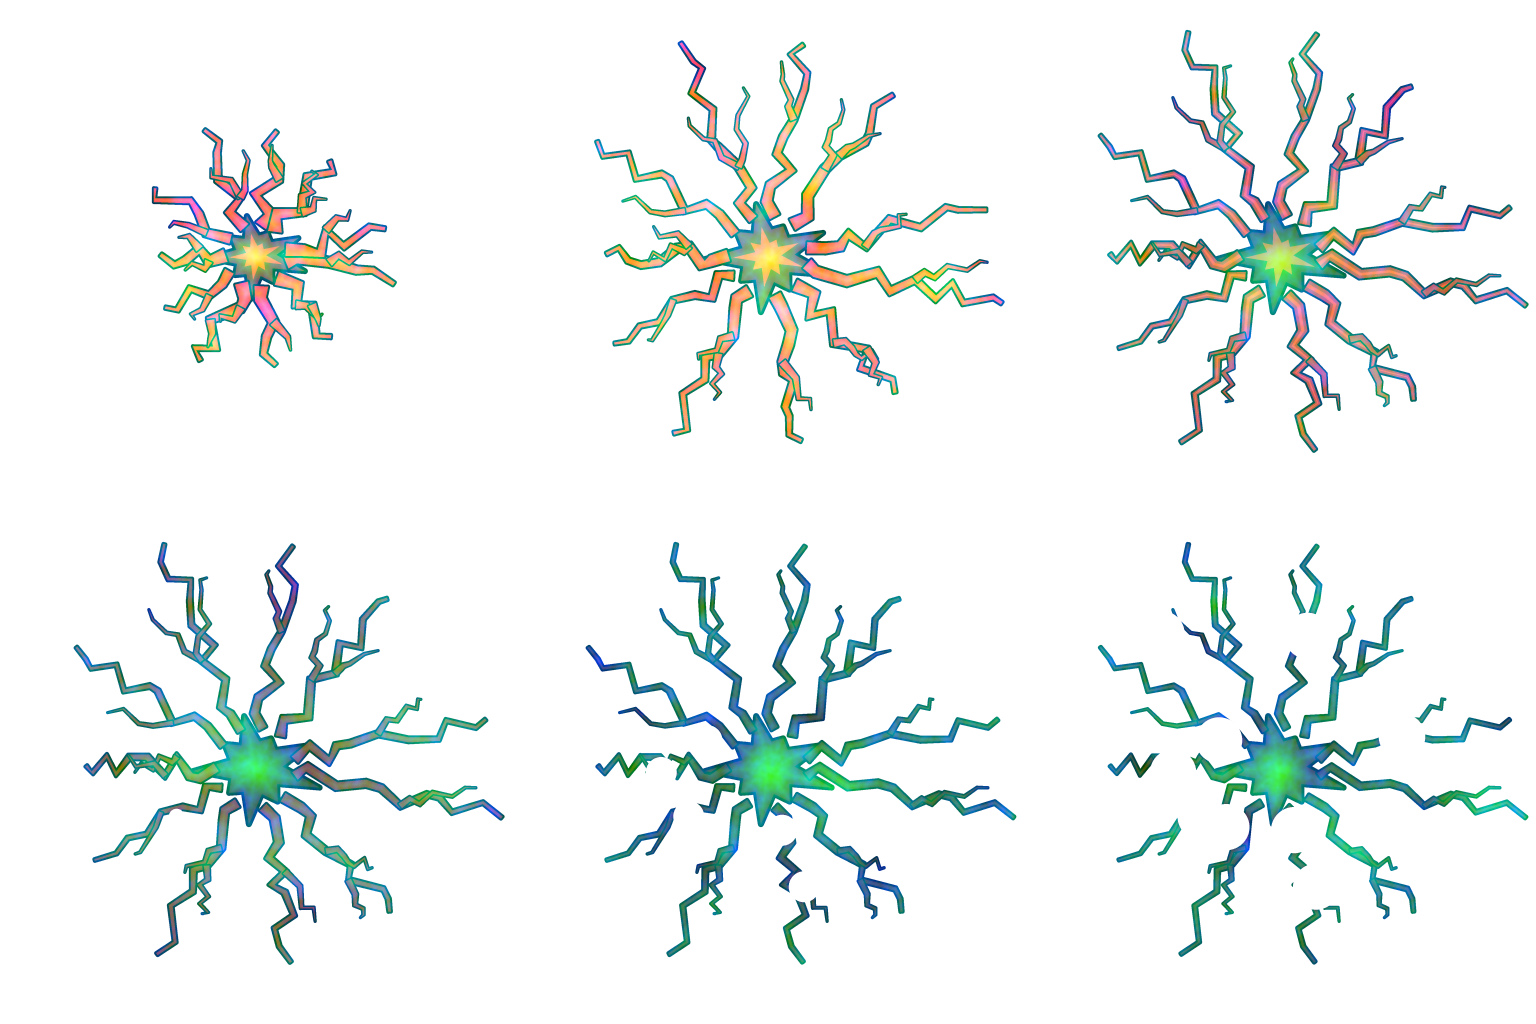
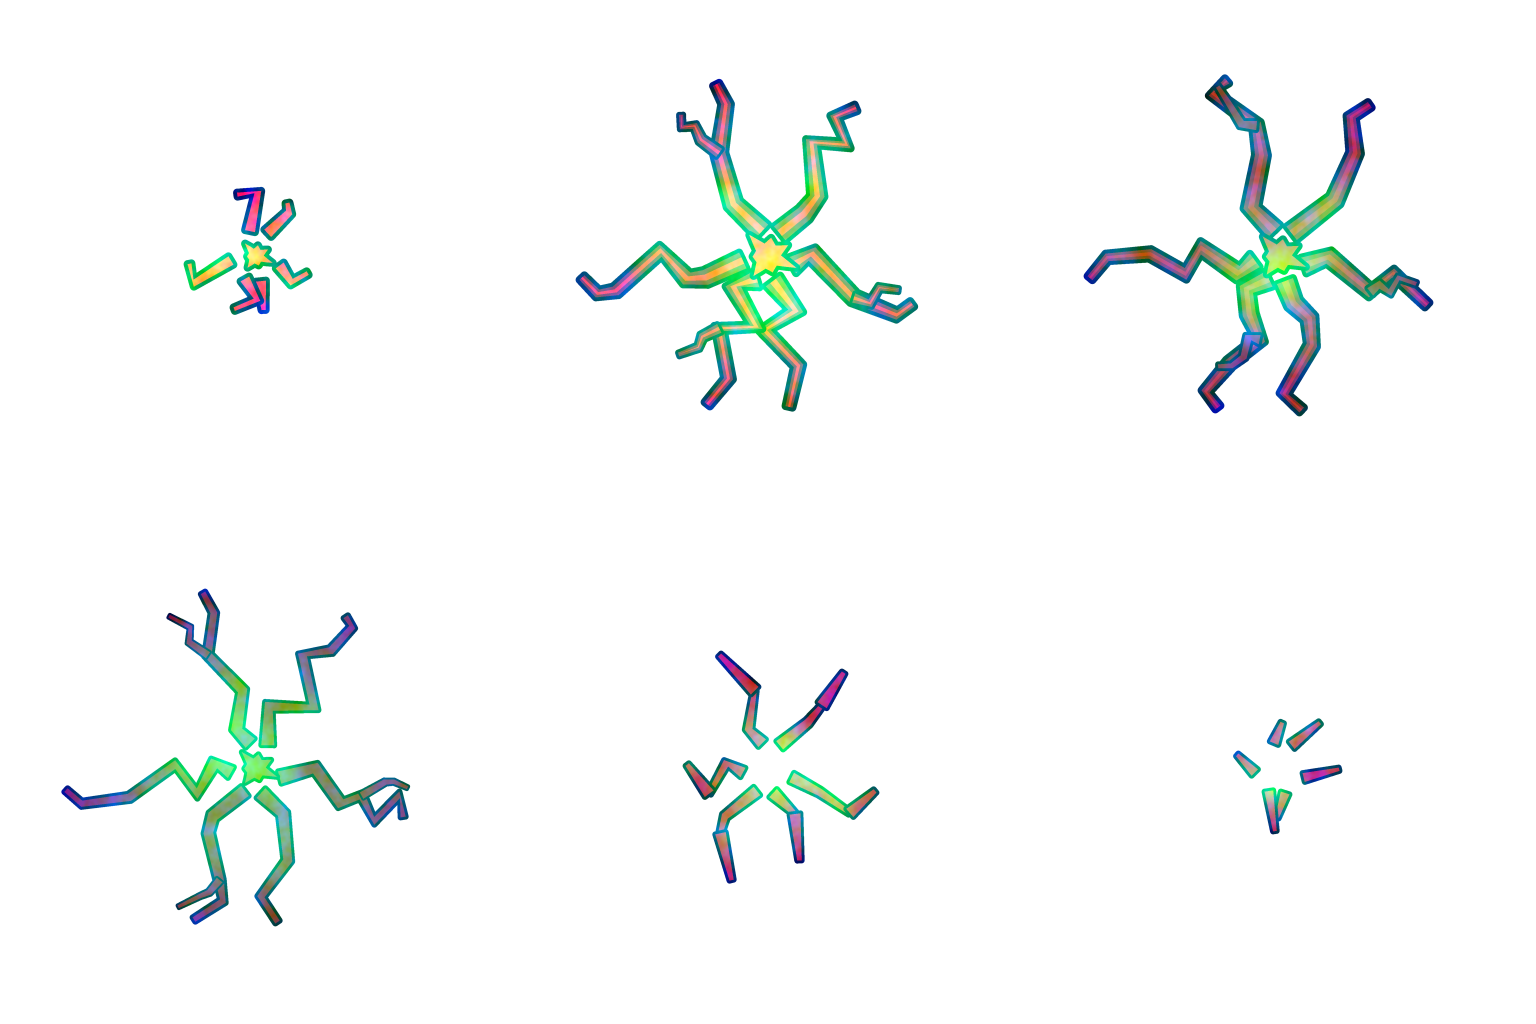
feat(fx): ice and storm landing floor spreads redrawn in their languages
Ice landings get their own floor_frost sheet: a see-through rime patch broken
into plates by three straight kinked fractures (none from one middle), lit
plate edges, a hot heart at the peak, plates dropping outer first. Storm's
floor_arcs is six fat lime zigzags in three clustered fans with a white-hot
core, retracting tail first, never deep green. The spread is pooled through
FX_BEAT.stamp; the spectacle check counts a pooled node as ended.

diff --git a/tools/vfx_gen/gen_spectacle.py b/tools/vfx_gen/gen_spectacle.py
@@ -18,6 +18,7 @@ import os
 import sys
 
 import numpy as np
+from scipy import ndimage
 
 sys.path.insert(0, os.path.dirname(os.path.abspath(__file__)))
 from vfxlib import (BODY, DEEP, HOT, INK, LIGHT, SS, Frame, ellipse_mask, grow, jag_path,  # noqa: E402
@@ -307,12 +308,160 @@ def floor_cracks(i, n, size):
     return _spread(i, n, size, "cracks", 3601)
 
 
-def floor_arcs(i, n, size):
-    return _spread(i, n, size, "arcs", 3701)
-
-
 def floor_splat(i, n, size):
     return _spread(i, n, size, "splat", 3801)
+
+
+# --- floor_arcs (fx-queue-a, the lightning language): the storm landing's floor spread ---------------------------
+# Was eleven thin zigzags plus forks that cooled to deep green: a dark scribble web under the pile. Now six fat lime
+# bolts in three uneven fans (cluster_angles, clear gaps), uneven segments, one short fork on some, a white-hot core
+# down each at the peak. Frame 0 the leaders (short, hot, thin: the anticipation), 1 the strike at full length (white
+# core, the one hot area), 2 the same bolts re-drawn (they crawl on twos) with a light core, 3 the afterimage (body,
+# no core, thinner), 4-5 they break into pieces from the tips in (tail first) and the stubs fade. Never deep green.
+
+def floor_arcs(i, n, size):
+    f = Frame(size)
+    c = f.c
+    seed = 3701
+    angs = cluster_angles(6, seed, clusters=3, spread=0.42)
+    reach = [0.34, 0.95, 0.97, 0.97, 0.9, 0.8][i]
+    width = [0.55, 1.0, 0.95, 0.72, 0.6, 0.5][i]
+    boil = 0 if i <= 1 else (1 if i == 2 else 2)  # the zigzag re-drawn (crawls) from frame 2 on
+    tone = HOT if i == 0 else (BODY if i <= 3 else LIGHT)
+    ink = 4.0 if i <= 2 else 3.0
+    g = rng(seed + 11)
+    lens = [g.uniform(0.75, 1.0) for _ in angs]
+    for k, (a, wt) in enumerate(angs):
+        L = f.u(reach * lerp(0.62, 1.0, wt) * lens[k])
+        r0 = f.u(0.1)
+        if L <= r0 * 1.4:
+            continue
+        p = jag_path(polar(c, r0, a), polar(c, L, a + 0.06 * (1 if k % 2 else -1)), f.u(0.13), 0.62, seed + k * 7 + boil * 101)
+        w0 = f.u(0.078) * lerp(0.75, 1.0, wt) * width
+        wf = lambda q, w0=w0: w0 * (1 - 0.62 * q) + 1.0
+        if i >= 4:  # tail first: the outer end goes, the rest breaks into two or three pieces
+            keep = 0.75 if i == 4 else 0.5
+            m = max(2, int(len(p) * keep))
+            p = p[:m]
+            pieces = [p[:max(2, m // 2 + 1)], p[m // 2 + (1 if i == 5 else 0):]]
+        else:
+            pieces = [p]
+        for pc in pieces:
+            if len(pc) < 2:
+                continue
+            f.poly(stroke(pc, wf, cap=False), tone, ink=ink)
+            if i in (1, 2):  # the core down the bolt: white-hot at the strike, light after
+                f.poly(stroke(pc, lambda q, w0=w0: w0 * 0.4 * (1 - 0.7 * q), cap=False), HOT if i == 1 else LIGHT)
+        if 1 <= i <= 3 and k % 2 == 0:  # one short zigzag fork off the middle
+            j = len(p) // 2
+            x0, y0 = p[j]
+            fa = a + (0.55 if k % 4 else -0.55)
+            fl = L * 0.3
+            fp = jag_path((x0, y0), (x0 + math.cos(fa) * fl, y0 + math.sin(fa) * fl), f.u(0.07), 0.55, seed + 50 + k + boil * 13)
+            f.poly(stroke(fp, lambda q, w0=w0: w0 * 0.55 * (1 - 0.6 * q) + 1.0, cap=False), tone, ink=ink - 1.0)
+            if i == 1:
+                f.poly(stroke(fp, lambda q, w0=w0: w0 * 0.2 * (1 - q), cap=False), HOT)
+    # the strike point: a small lopsided straight star where it grounded (hot at the peak, lime after)
+    if i <= 3:
+        R = f.u([0.07, 0.12, 0.11, 0.09][i])
+        tips = [R * b for b in (1.0, 0.55, 0.8, 0.5, 0.92, 0.6, 0.75)]
+        f.poly(star(c, c, tips, R * 0.42, rot=0.4, bow=0.0, n_edge=2), HOT if i <= 1 else (LIGHT if i == 2 else BODY), ink=ink)
+    # tail first: the outer ends go first, in clumps
+    S = f.S
+    yy, xx = np.mgrid[0:S, 0:S].astype(np.float32)
+    f.order = 1.0 - np.clip(np.hypot(xx - c, yy - c) / (S * 0.5), 0, 1)
+    return f.finish()
+
+
+# --- floor_frost (fx-queue-a, the ice language): the ice landing's floor spread (Black Ice, Flash Freeze, Avalanche)
+# Was the magma cracks sheet in the water row: eleven hairline blue rays round a flat star. Now a sheet of ice set
+# on the floor, the frost_mark language at landing size: an uneven straight-edged rime patch (see-through) cut into
+# plates by four straight fractures that run across it chord to chord (none from one middle: that read as a
+# snowflake), fat, kinked once or twice, lit on one edge, past the patch's rim; a broken lit rim. The one hot area is
+# the fractures' heart round the landing at the peak. Frame 0 the first fracture running across (anticipation), 1 the
+# patch out with the hot heart, 2 settled (light core), 3 the plates part (the gaps widen), 4-5 the plates drop one by
+# one (whole plates cut, outer first) and the fractures go from their ends. No crystals, no spikes, no rays.
+
+def _frost_rim(f, reach, g, turn):
+    c = f.c
+    rim = []
+    sides = 13
+    for q in range(sides):
+        a = turn + math.tau * (q + g.uniform(-0.25, 0.25)) / sides
+        rr = f.u(reach * g.uniform(0.82, 1.0) * (1.0 + 0.16 * math.cos(a - turn)))
+        rim.append(polar(c, rr, a))
+    return rim
+
+
+def floor_frost(i, n, size):
+    f = Frame(size)
+    S, c = f.S, f.c
+    g = rng(3651)
+    turn = g.uniform(0, math.tau)
+    patch = [0.24, 0.5, 0.52, 0.53, 0.53, 0.53][i]
+    rim = _frost_rim(f, patch, g, turn)
+    whole = poly_mask([rim], S)
+    # three fractures: kinked straight chords across the patch, off its middle (none radiate from one point), so the
+    # sheet breaks into five or six big plates
+    picks = [(0, 7, 0.08), (4, 10, -0.1), (9, 2, 0.05)]
+    lines = []
+    for k, (qa, qb, off) in enumerate(picks):
+        a = np.asarray(rim[qa], float)
+        b = np.asarray(rim[qb], float)
+        d = b - a
+        nd = np.array([-d[1], d[0]]) / max(1e-6, np.linalg.norm(d))
+        a = a - d * 0.04 + nd * f.u(off)
+        b = b + d * 0.04 + nd * f.u(off)
+        pts = [a]
+        for q in ((0.45,) if k % 2 else (0.32, 0.7)):
+            pts.append(a + d * 1.08 * q + nd * f.u(g.uniform(-0.045, 0.045)))
+        pts.append(b)
+        lines.append(np.array(pts))
+    if i == 0:  # anticipation: the first fracture half across a small hot patch
+        lines = [np.array([lines[0][0], lines[0][1]])]
+    gap = f.u([0.012, 0.014, 0.016, 0.026, 0.034, 0.04][i])
+    gaps = poly_mask([stroke(ln, [gap] * len(ln), cap=False) for ln in lines], S)
+    plates = whole * (1.0 - gaps)
+    lab, nl = ndimage.label(plates > 0.5)
+    # plates drop outer first (4: a third, 5: two thirds)
+    if i >= 4 and nl > 1:
+        cen = ndimage.center_of_mass(np.ones_like(plates), lab, range(1, nl + 1))
+        far = sorted(range(nl), key=lambda j: -math.hypot(cen[j][0] - c, cen[j][1] - c))
+        drop = far[:max(1, nl // 3)] if i == 4 else far[:max(2, (2 * nl) // 3)]
+        for j in drop:
+            plates = plates * (lab != j + 1)
+        lab, nl = ndimage.label(plates > 0.5)
+    # the ink round every plate (3 px on screen: breaker size), then each plate see-through, one cel tone a plate
+    ink_w = 4.0 * SS
+    rim_ink = np.clip(grow(plates, ink_w) - plates, 0, 1)
+    f.fill(rim_ink, INK)
+    for j in range(1, nl + 1):
+        m = (lab == j).astype(np.float32) * plates
+        f.fill(m, LIGHT if j % 3 == 1 else BODY, alpha=0.34 if i else 0.6)
+        # the lit edge: a solid band on each plate's up-left side (where the light catches the broken edge)
+        sh = int(f.u(0.022))
+        band = m * (1.0 - np.roll(np.roll(m, sh, 0), sh, 1))
+        f.fill(band, HOT if i == 0 else LIGHT)
+    # one specular stripe across the biggest plate
+    if 1 <= i <= 3 and nl:
+        sizes = ndimage.sum(np.ones_like(plates), lab, range(1, nl + 1))
+        big = int(np.argmax(sizes)) + 1
+        cy, cx = ndimage.center_of_mass(np.ones_like(plates), lab, big)
+        L = f.u(0.12)
+        spec = poly_mask([stroke([(cx - L, cy + L * 0.45), (cx + L, cy - L * 0.45)], [1.0, f.u(0.034), f.u(0.03), 1.0], cap=False)], S)
+        f.fill(spec * (lab == big), LIGHT)
+    # the heart: the fractures glow hot round the landing at the peak (the one hot area), a light core after
+    if i in (1, 2):
+        yy, xx = np.mgrid[0:S, 0:S].astype(np.float32)
+        near = (np.hypot(xx - c, yy - c) < f.u(0.24)).astype(np.float32)
+        f.fill(gaps * whole * near, HOT if i == 1 else LIGHT)
+    # plate by plate: erosion order per plate, outer plates first
+    yy, xx = np.mgrid[0:S, 0:S].astype(np.float32)
+    rad = np.clip(np.hypot(xx - c, yy - c) / (S * 0.5), 0, 1)
+    lab2, nl2 = ndimage.label(whole * (1.0 - gaps) > 0.5)
+    pv = rng(3659).random(max(1, nl2 + 1)).astype(np.float32)
+    f.order = (1.0 - rad) * 0.55 + pv[lab2] * 0.45
+    return f.finish()
 
 
 # --- wall_star: a foe slammed into a wall or pillar -------------------------------------------------------------
@@ -456,7 +605,8 @@ SHEETS = {
     "slam_ink": (slam_ink, 384, 3, 6, "void", "center", 0.45),
     "slam_rays": (slam_rays, 512, 3, 6, "gold", "edge", 0.4),
     "floor_cracks": (floor_cracks, 512, 3, 6, "earth", "edge", 0.5),
-    "floor_arcs": (floor_arcs, 512, 3, 6, "boltA", "edge", 0.5),
+    "floor_arcs": (floor_arcs, 512, 3, 6, "boltA", "edge", 0.4),
+    "floor_frost": (floor_frost, 512, 3, 6, "water", "edge", 0.35),
     "floor_splat": (floor_splat, 512, 3, 6, "void", "edge", 0.5),
     "war_cry": (war_cry, 384, 3, 6, "void", "edge", 0.4),
     "wall_star": (wall_star, 320, 3, 6, "hit", "center", 0.45),
